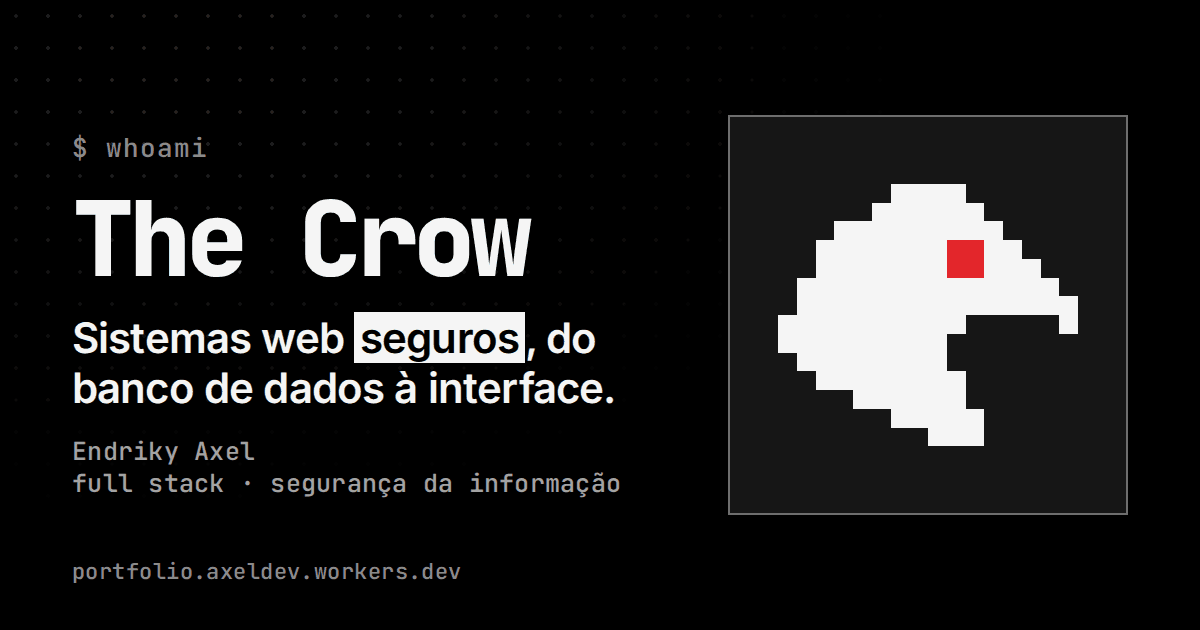
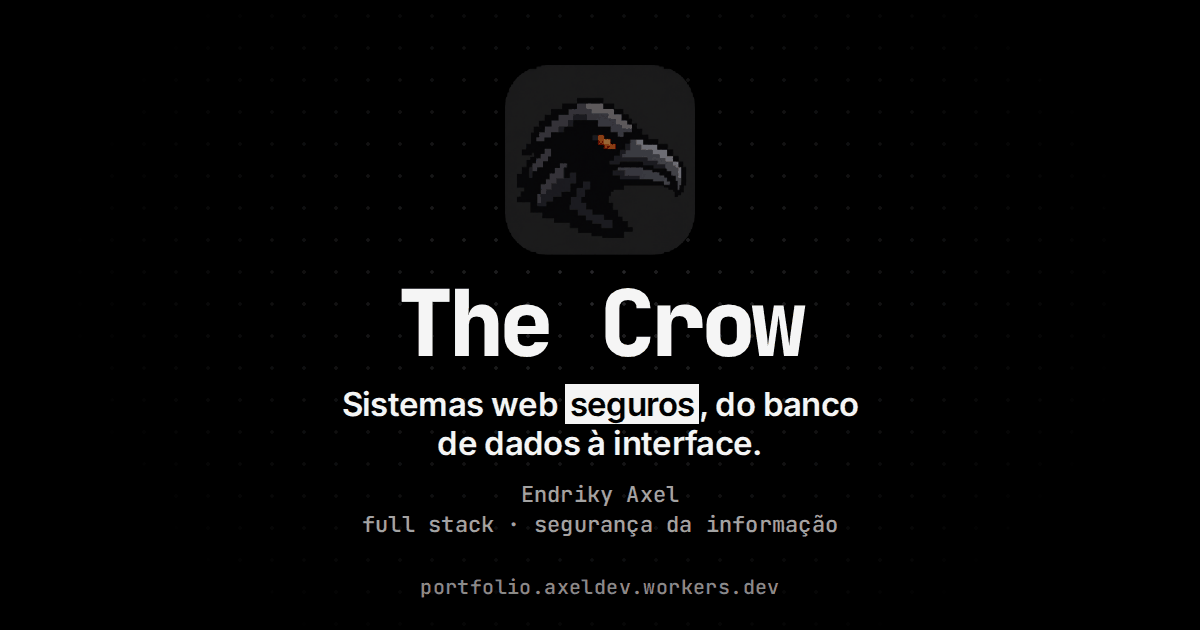
Prévia quadrada-segura (bio.site), SEO: sitemap, robots, JSON-LD e títulos com nome

diff --git a/brand/og/og.html b/brand/og/og.html
@@ -4,42 +4,40 @@
 <meta charset="utf-8" />
 <title>Imagem de prévia de link (1200x630)</title>
 <style>
-  /* Modelo da imagem de prévia (og-image.png / og-orcamento.png). Ver LEIAME.md. */
+  /* Modelo da imagem de prévia (og-image.png / og-orcamento.png). Ver LEIAME.md.
+     Tudo que importa fica no quadrado central de 630x630 (x de 285 a 915): sites que cortam a prévia em
+     quadrado, como o bio.site, mostram o mesmo conjunto completo, sem pedaços de texto. */
   @font-face { font-family: 'JetBrains Mono'; font-weight: 100 800; src: url('/node_modules/@fontsource-variable/jetbrains-mono/files/jetbrains-mono-latin-wght-normal.woff2') format('woff2'); }
   @font-face { font-family: 'Inter'; font-weight: 100 900; src: url('/node_modules/@fontsource-variable/inter/files/inter-latin-wght-normal.woff2') format('woff2'); }
   * { box-sizing: border-box; margin: 0; }
   html, body { width: 1200px; height: 630px; background: #000; overflow: hidden; }
   body { position: relative; color: #f5f5f5; font-family: 'Inter', sans-serif; }
   .grid { position: absolute; inset: 0; background-image: radial-gradient(circle, #4a4a4a 1.5px, transparent 2px); background-size: 32px 32px;
-    -webkit-mask-image: radial-gradient(ellipse 85% 100% at 15% 10%, #000 0%, transparent 72%); mask-image: radial-gradient(ellipse 85% 100% at 15% 10%, #000 0%, transparent 72%); opacity: .55; }
-  .copy { position: absolute; left: 72px; top: 0; bottom: 0; width: 660px; display: flex; flex-direction: column; justify-content: center; gap: 22px; }
-  .prompt { font: 500 26px 'JetBrains Mono'; color: #8a8a8a; letter-spacing: .04em; }
-  h1 { font: 800 104px/1 'JetBrains Mono'; letter-spacing: -.05em; }
-  .lead { font: 600 42px/1.18 'Inter'; letter-spacing: -.02em; color: #f5f5f5; max-width: 620px; }
+    -webkit-mask-image: radial-gradient(ellipse 60% 90% at 50% 45%, #000 0%, transparent 75%); mask-image: radial-gradient(ellipse 60% 90% at 50% 45%, #000 0%, transparent 75%); opacity: .5; }
+  .center { position: absolute; left: 285px; top: 0; width: 630px; height: 630px; display: flex; flex-direction: column; align-items: center; justify-content: center; text-align: center; gap: 16px; padding: 0 36px 26px; }
+  .icon { width: 190px; height: 190px; border-radius: 22%; margin-bottom: 6px; }
+  h1 { font: 800 92px/1 'JetBrains Mono'; letter-spacing: -.05em; }
+  .lead { font: 600 33px/1.2 'Inter'; letter-spacing: -.02em; color: #f5f5f5; max-width: 540px; }
   .lead mark { background: #f5f5f5; color: #000; padding: 0 .14em; }
-  .meta { font: 500 25px/1.3 'JetBrains Mono'; color: #a3a3a3; letter-spacing: .01em; }
-  .url { position: absolute; left: 72px; bottom: 44px; font: 500 22px 'JetBrains Mono'; color: #8a8a8a; letter-spacing: .02em; }
-  .panel { position: absolute; right: 72px; top: 115px; width: 400px; height: 400px; border: 2px solid #6e6e6e; background: #161616; display: grid; place-items: center; }
-  .panel svg { width: 300px; height: 300px; shape-rendering: crispEdges; }
+  .meta { font: 500 22px/1.35 'JetBrains Mono'; color: #a3a3a3; letter-spacing: .01em; }
+  .url { position: absolute; left: 285px; width: 630px; text-align: center; bottom: 30px; font: 500 20px 'JetBrains Mono'; color: #8a8a8a; letter-spacing: .02em; }
 </style>
 </head>
 <body>
 <div class="grid"></div>
-<div class="copy">
-  <p class="prompt" id="prompt"></p>
+<div class="center">
+  <img class="icon" src="/public/icon-512.png" alt="" />
   <h1 id="title"></h1>
   <p class="lead" id="lead"></p>
   <p class="meta" id="meta"></p>
 </div>
 <p class="url">portfolio.axeldev.workers.dev</p>
-<div class="panel"><svg viewBox="0 0 16 16" aria-hidden="true"><rect fill="#f5f5f5" x="6" y="1" width="4" height="1"/><rect fill="#f5f5f5" x="5" y="2" width="6" height="1"/><rect fill="#f5f5f5" x="3" y="3" width="9" height="1"/><rect fill="#f5f5f5" x="2" y="4" width="7" height="1"/><rect fill="#e3262b" x="9" y="4" width="2" height="1"/><rect fill="#f5f5f5" x="11" y="4" width="2" height="1"/><rect fill="#f5f5f5" x="2" y="5" width="7" height="1"/><rect fill="#e3262b" x="9" y="5" width="2" height="1"/><rect fill="#f5f5f5" x="11" y="5" width="3" height="1"/><rect fill="#f5f5f5" x="1" y="6" width="14" height="1"/><rect fill="#f5f5f5" x="1" y="7" width="15" height="1"/><rect fill="#f5f5f5" x="0" y="8" width="10" height="1"/><rect fill="#f5f5f5" x="15" y="8" width="1" height="1"/><rect fill="#f5f5f5" x="0" y="9" width="9" height="1"/><rect fill="#f5f5f5" x="1" y="10" width="8" height="1"/><rect fill="#f5f5f5" x="2" y="11" width="8" height="1"/><rect fill="#f5f5f5" x="4" y="12" width="6" height="1"/><rect fill="#f5f5f5" x="6" y="13" width="5" height="1"/><rect fill="#f5f5f5" x="8" y="14" width="3" height="1"/></svg></div>
 <script>
   const variants = {
-    home: { prompt: '$ whoami', title: 'The Crow', lead: 'Sistemas web <mark>seguros</mark>, do banco de dados à interface.', meta: 'Endriky Axel<br>full stack · segurança da informação' },
-    orcamento: { prompt: '$ orcamento --novo', title: 'Orçamento', lead: 'Monte o orçamento do seu <mark>projeto</mark>, sem cadastro.', meta: 'Escolha o que precisa<br>veja a estimativa · envie pelo WhatsApp' },
+    home: { title: 'The Crow', lead: 'Sistemas web <mark>seguros</mark>, do banco de dados à interface.', meta: 'Endriky Axel<br>full stack · segurança da informação' },
+    orcamento: { title: 'Orçamento', lead: 'Monte o orçamento do seu <mark>projeto</mark>, sem cadastro.', meta: 'Escolha o que precisa<br>veja a estimativa · envie pelo WhatsApp' },
   }
   const v = variants[new URLSearchParams(location.search).get('v') ?? 'home']
-  document.getElementById('prompt').textContent = v.prompt
   document.getElementById('title').textContent = v.title
   document.getElementById('lead').innerHTML = v.lead
   document.getElementById('meta').innerHTML = v.meta

diff --git a/src/i18n/meta.ts b/src/i18n/meta.ts
@@ -28,27 +28,27 @@ interface PageMeta {
 const META: Readonly<Record<PageId, Readonly<Record<Lang, PageMeta>>>> = {
   home: {
     pt: {
-      title: 'The Crow · Dev e Segurança',
+      title: 'Endriky Axel · Dev Full Stack e Segurança | The Crow',
       description:
-        'Sites de vendas, gestão financeira, automações e análise de segurança. Front-end e back-end, com domínio grátis por 1 ano e suporte 24h.',
+        'Endriky Axel, dev full stack e de segurança. Sites de vendas, gestão financeira, automações e análise de segurança. Domínio grátis por 1 ano e suporte 24h.',
       imageAlt:
         'The Crow: sistemas web seguros, do banco de dados à interface. Por Endriky Axel, full stack e segurança da informação. Ao lado, a cabeça de um corvo em pixel art com o olho vermelho.',
       noscript: 'Este site precisa de JavaScript para funcionar.',
       noscriptLink: 'github.com/Alexitiimia',
     },
     en: {
-      title: 'The Crow · Dev & Security',
+      title: 'Endriky Axel · Full Stack Dev & Security | The Crow',
       description:
-        'Sales websites, financial management, automations and security analysis. Front end and back end, with a free domain for 1 year and 24/7 support.',
+        'Endriky Axel, full stack and security developer. Sales websites, financial management, automations and security analysis. Free domain for 1 year and 24/7 support.',
       imageAlt:
         'The Crow: secure web systems, from the database to the interface. By Endriky Axel, full stack and information security. Beside it, the head of a pixel-art crow with a red eye.',
       noscript: 'This site needs JavaScript to work.',
       noscriptLink: 'github.com/Alexitiimia',
     },
     es: {
-      title: 'The Crow · Dev y Seguridad',
+      title: 'Endriky Axel · Dev Full Stack y Seguridad | The Crow',
       description:
-        'Sitios de ventas, gestión financiera, automatizaciones y análisis de seguridad. Front-end y back-end, con dominio gratis por 1 año y soporte 24 h.',
+        'Endriky Axel, dev full stack y de seguridad. Sitios de ventas, gestión financiera, automatizaciones y análisis de seguridad. Dominio gratis por 1 año y soporte 24 h.',
       imageAlt:
         'The Crow: sistemas web seguros, de la base de datos a la interfaz. Por Endriky Axel, full stack y seguridad de la información. Al lado, la cabeza de un cuervo en pixel art con el ojo rojo.',
       noscript: 'Este sitio necesita JavaScript para funcionar.',
@@ -86,10 +86,60 @@ const META: Readonly<Record<PageId, Readonly<Record<Lang, PageMeta>>>> = {
   },
 }
 
-/** Imagem da prévia do link (1200x630), em public/. Igual em todos os idiomas. */
+/**
+ * Imagem da prévia do link (1200x630), em public/. Igual em todos os idiomas.
+ * O `?v=` força WhatsApp, Discord, bio.site etc. a buscarem a imagem de novo; some um número a cada troca.
+ */
 const OG_IMAGE: Readonly<Record<PageId, string>> = {
-  home: 'og-image.png',
-  quote: 'og-orcamento.png',
+  home: 'og-image.png?v=2',
+  quote: 'og-orcamento.png?v=2',
+}
+
+/** Perfis públicos que já aparecem na seção Contato (src/content/contact.ts e site.ts). */
+const PROFILES = [
+  'https://github.com/Alexitiimia',
+  'https://www.linkedin.com/in/endriky-657a89197/',
+  'https://www.instagram.com/antigo.dont/',
+] as const
+
+/**
+ * Dados estruturados (schema.org) da página inicial: dizem ao Google quem é a pessoa, qual é o site e
+ * onde estão os perfis dela. Não entram telefone, e-mail nem data de nascimento de propósito.
+ */
+function homeJsonLd(lang: Lang, url: string, description: string): string {
+  const jobTitle = {
+    pt: 'Desenvolvedor full stack e de segurança da informação',
+    en: 'Full stack and information security developer',
+    es: 'Desarrollador full stack y de seguridad de la información',
+  }[lang]
+  const data = {
+    '@context': 'https://schema.org',
+    '@graph': [
+      {
+        '@type': 'WebSite',
+        '@id': `${SITE_ORIGIN}/#website`,
+        url: `${SITE_ORIGIN}/`,
+        name: 'The Crow',
+        inLanguage: LANG_INFO[lang].htmlLang,
+        publisher: { '@id': `${SITE_ORIGIN}/#person` },
+      },
+      {
+        '@type': 'Person',
+        '@id': `${SITE_ORIGIN}/#person`,
+        name: 'Endriky Axel',
+        alternateName: 'The Crow',
+        jobTitle,
+        description,
+        url,
+        image: `${SITE_ORIGIN}/icon-512.png`,
+        sameAs: PROFILES,
+        knowsAbout: ['React', 'TypeScript', 'Node.js', 'Cybersecurity', 'Web development'],
+      },
+    ],
+  }
+  // "<" vira < para que nenhum texto consiga fechar a tag <script> antes da hora.
+  const json = JSON.stringify(data).replace(/</g, '\\u003c')
+  return `<script type="application/ld+json">${json}</script>`
 }
 
 export function pageMeta(lang: Lang, page: PageId): PageMeta {
@@ -124,6 +174,7 @@ export function pageTokens(lang: Lang, page: PageId): Readonly<Record<string, st
     ogLocale: LANG_INFO[lang].ogLocale,
     ogLocaleAlternates: otherLocales,
     alternates,
+    jsonLd: page === 'home' ? homeJsonLd(lang, url, meta.description) : '',
     noscript: meta.noscript,
     noscriptLink: meta.noscriptLink,
     noscriptHref: page === 'home' ? 'https://github.com/Alexitiimia' : pagePath(lang, 'home'),

diff --git a/src/test/deploy.test.ts b/src/test/deploy.test.ts
@@ -2,6 +2,7 @@ import { describe, expect, it } from 'vitest'
 import { site } from '@/content/site'
 import { renderPage } from '@/i18n/html'
 import { LANGS, SITE_ORIGIN, pagePath, type Lang, type PageId } from '@/i18n/lang'
+import { renderRobots, renderSitemap } from '@/i18n/seo'
 import { THEME_STORAGE_KEY } from '@/lib/theme'
 import { SELF_WORKER_NAME } from '../../worker/domain.ts'
 
@@ -20,7 +21,6 @@ const files = import.meta.glob<string>(
     '/public/404.css',
     '/public/theme-init.js',
     '/public/site.webmanifest',
-    '/public/robots.txt',
     '/src/styles/tokens.css',
   ],
   { query: '?raw', import: 'default', eager: true },
@@ -196,6 +196,8 @@ describe.each([
 
   it('não tem script, estilo nem evento inline (a CSP bloquearia em produção)', () => {
     for (const [, attributes = ''] of html.matchAll(/<script\b([^>]*)>/gi)) {
+      // JSON-LD (dados para o Google) não é código: o navegador não executa e a CSP não se aplica.
+      if (/\btype\s*=\s*"application\/ld\+json"/.test(attributes)) continue
       expect(attributes, 'todo <script> precisa de src').toMatch(/\bsrc\s*=/)
     }
     expect(html).not.toMatch(/<style\b/i)
@@ -510,10 +512,37 @@ describe('prévia do link: o site inteiro', () => {
     expect([...new Set(origins)]).toEqual([SITE_ORIGIN])
   })
 
-  it('o robots.txt deixa os robôs de prévia entrarem', () => {
-    const robots = read('/public/robots.txt')
+  it('o robots.txt deixa os robôs entrarem e aponta para o sitemap', () => {
+    const robots = renderRobots()
 
     expect(robots).toMatch(/^User-agent:\s*\*/m)
     expect(robots).not.toMatch(/^Disallow:\s*\/\s*$/m)
+    expect(robots).toContain(`Sitemap: ${SITE_ORIGIN}/sitemap.xml`)
+  })
+
+  it('o sitemap lista toda página de cada idioma, com os hreflang', () => {
+    const sitemap = renderSitemap()
+
+    for (const { lang, path } of previewPages) {
+      expect(sitemap, `${lang} ${path}`).toContain(`<loc>${SITE_ORIGIN}${path}</loc>`)
+    }
+    expect(sitemap).toContain('hreflang="x-default"')
+    expect(sitemap).not.toMatch(/<loc>(?!https:\/\/)/)
+  })
+
+  it('a página inicial traz dados estruturados (Person e WebSite) sem contato privado', () => {
+    for (const lang of LANGS) {
+      const html = readPage('/index.html', lang)
+      const json = matchOrThrow(
+        html,
+        /<script type="application\/ld\+json">(.*?)<\/script>/s,
+        `o JSON-LD (${lang})`,
+      )
+      const data = JSON.parse(json) as { '@graph': { '@type': string; sameAs?: string[] }[] }
+      const types = data['@graph'].map((item) => item['@type'])
+
+      expect(types).toEqual(['WebSite', 'Person'])
+      expect(json).not.toMatch(/telephone|email|birthDate|wa\.me/i)
+    }
   })
 })

diff --git a/src/i18n/seo.ts b/src/i18n/seo.ts
@@ -1,0 +1,38 @@
+import { LANG_INFO, LANGS, SITE_ORIGIN, pageAlternates, pagePath, type PageId } from './lang.ts'
+
+/*
+  Arquivos para os buscadores (Google, Bing...): `sitemap.xml` lista todas as páginas de cada idioma e
+  `robots.txt` libera a entrada e aponta para o sitemap. O Vite grava os dois em `dist/` (ver vite.i18n.ts).
+  Só funções puras, para o teste conferir o texto sem rodar o build.
+*/
+
+const PAGES: readonly PageId[] = ['home', 'quote']
+
+/** Uma `<url>` por página e idioma, cada uma listando as versões nos outros idiomas (hreflang). */
+export function renderSitemap(): string {
+  const entries = PAGES.flatMap((page) => {
+    const alternates = [
+      ...pageAlternates(page).map(
+        ({ lang, path }) =>
+          `    <xhtml:link rel="alternate" hreflang="${LANG_INFO[lang].htmlLang}" href="${SITE_ORIGIN}${path}"/>`,
+      ),
+      `    <xhtml:link rel="alternate" hreflang="x-default" href="${SITE_ORIGIN}${pagePath('pt', page)}"/>`,
+    ].join('\n')
+    return LANGS.map(
+      (lang) =>
+        `  <url>\n    <loc>${SITE_ORIGIN}${pagePath(lang, page)}</loc>\n${alternates}\n  </url>`,
+    )
+  })
+  return [
+    '<?xml version="1.0" encoding="UTF-8"?>',
+    '<urlset xmlns="http://www.sitemaps.org/schemas/sitemap/0.9" xmlns:xhtml="http://www.w3.org/1999/xhtml">',
+    ...entries,
+    '</urlset>',
+    '',
+  ].join('\n')
+}
+
+/** Todos os robôs podem entrar (inclusive os de prévia de link, que precisam ler a página e a imagem). */
+export function renderRobots(): string {
+  return `User-agent: *\nAllow: /\n\nSitemap: ${SITE_ORIGIN}/sitemap.xml\n`
+}

diff --git a/vite.i18n.ts b/vite.i18n.ts
@@ -1,5 +1,6 @@
 import type { Plugin } from 'vite'
 import { renderPage } from './src/i18n/html.ts'
+import { renderRobots, renderSitemap } from './src/i18n/seo.ts'
 import { DEFAULT_LANG, LANGS, pageFile, parsePath, type PageId } from './src/i18n/lang.ts'
 
 /** Modelo de cada página (os arquivos de entrada do Vite) e o nome que ele ganha em `dist/`. */
@@ -82,6 +83,10 @@ export function i18nPages(): Plugin {
         }
         template.source = renderPage(restored, DEFAULT_LANG, page)
       }
+
+      // Endereços para os buscadores: saem daqui para seguir o SITE_ORIGIN sem ninguém lembrar de mexer.
+      this.emitFile({ type: 'asset', fileName: 'sitemap.xml', source: renderSitemap() })
+      this.emitFile({ type: 'asset', fileName: 'robots.txt', source: renderRobots() })
     },
   }
 }

diff --git a/src/i18n/html.ts b/src/i18n/html.ts
@@ -13,7 +13,7 @@ function escapeHtml(value: string): string {
 }
 
 /** Marcadores que já trazem HTML pronto (e por isso não são escapados). */
-const RAW_TOKENS: ReadonlySet<string> = new Set(['alternates', 'ogLocaleAlternates'])
+const RAW_TOKENS: ReadonlySet<string> = new Set(['alternates', 'ogLocaleAlternates', 'jsonLd'])
 
 /**
  * Preenche os `{{marcadores}}` de um modelo de página (index.html ou orcamento/index.html) com os

diff --git a/index.html b/index.html
@@ -8,6 +8,8 @@
     <meta name="description" content="{{description}}" />
 
     <meta name="author" content="Endriky Axel" />
+    <meta name="robots" content="index, follow, max-image-preview:large, max-snippet:-1" />
+    {{jsonLd}}
 
     <meta name="color-scheme" content="dark light" />
     <meta name="theme-color" content="#000000" media="(prefers-color-scheme: dark)" />

diff --git a/docs/DEPLOY.md b/docs/DEPLOY.md
@@ -105,6 +105,26 @@ de `brand/og/`.
 - **Instagram:** o cartão aparece em mensagens diretas e nos stories com link. Legenda de
   postagem não vira link clicável, então lá só o endereço aparece como texto.
 - O `robots.txt` deixa todos os robôs entrarem (eles precisam ler a página e a imagem).
+- **Miniatura quadrada (bio.site):** a imagem é cortada no centro, num quadrado de 630 × 630. Por isso
+  tudo que importa na `og-image.png` fica nesse quadrado (ver `brand/og/LEIAME.md`).
+
+## SEO (aparecer no Google)
+
+O que o código já faz: título e descrição com nome e palavras-chave em cada idioma
+(`src/i18n/meta.ts`), `canonical` e `hreflang`, dados estruturados schema.org (Person e WebSite, em
+JSON-LD na página inicial), `sitemap.xml` e `robots.txt` gerados no build a partir de `SITE_ORIGIN`
+(`src/i18n/seo.ts`). O que só você pode fazer:
+
+1. Entrar em [search.google.com/search-console](https://search.google.com/search-console), adicionar o
+   site e enviar `https://portfolio.axeldev.workers.dev/sitemap.xml`. Se escolher a verificação por
+   "tag HTML", me passe o código que eu coloco no `index.html`.
+2. Repetir no [Bing Webmaster Tools](https://www.bing.com/webmasters) (ele aceita importar do Google).
+3. Conseguir links para o site: GitHub, LinkedIn e Instagram apontando para ele ajudam.
+4. **Domínio próprio** (ex.: `endrikyaxel.com.br`) pesa bem mais que um `workers.dev`. Ao trocar, mude só
+   `SITE_ORIGIN` e reenvie o sitemap.
+
+Indexar leva de dias a semanas, e pesquisar só "The Crow" não vai trazer o site (há muita coisa com esse
+nome). O caminho realista é o nome "Endriky Axel" e termos como "desenvolvedor full stack" + cidade.
 
 ## bio.site
 

diff --git a/brand/og/LEIAME.md b/brand/og/LEIAME.md
@@ -6,13 +6,16 @@ Discord, X/Twitter, Telegram, LinkedIn etc. Tamanho fixo: **1200 × 630**, PNG, 
 
 `og.html` é o modelo. `?v=home` gera a do portfólio e `?v=orcamento` a da página de orçamento. Os
 textos ficam no objeto `variants`, no fim do arquivo. Usa as fontes reais do site (JetBrains Mono e
-Inter, de `node_modules`) e o corvo do favicon.
+Inter, de `node_modules`) e o corvo de `public/icon-512.png`.
+
+**Tudo fica no quadrado central de 630 × 630** (x de 285 a 915): o bio.site e outros sites cortam a
+prévia em quadrado, e assim a miniatura aparece completa em vez de um pedaço do texto.
 
 ## Como gerar de novo
 
 1. Na raiz do projeto: `python3 -m http.server 8765` (as fontes só carregam por http, não por
    arquivo aberto direto).
-2. No Chrome, abra `http://127.0.0.1:8765/brand/og/og.html?v=home`, deixe a janela com 1200 × 630
+2. No Chrome (ou `chrome-headless-shell --window-size=1200,630 --screenshot=...`), abra `http://127.0.0.1:8765/brand/og/og.html?v=home`, deixe a janela com 1200 × 630
    (DevTools → Ctrl+Shift+M → "Responsive" → 1200 × 630) e capture a tela: DevTools → Ctrl+Shift+P →
    "Capture screenshot".
 3. Reduza as cores para o arquivo ficar pequeno, por exemplo com Pillow:
